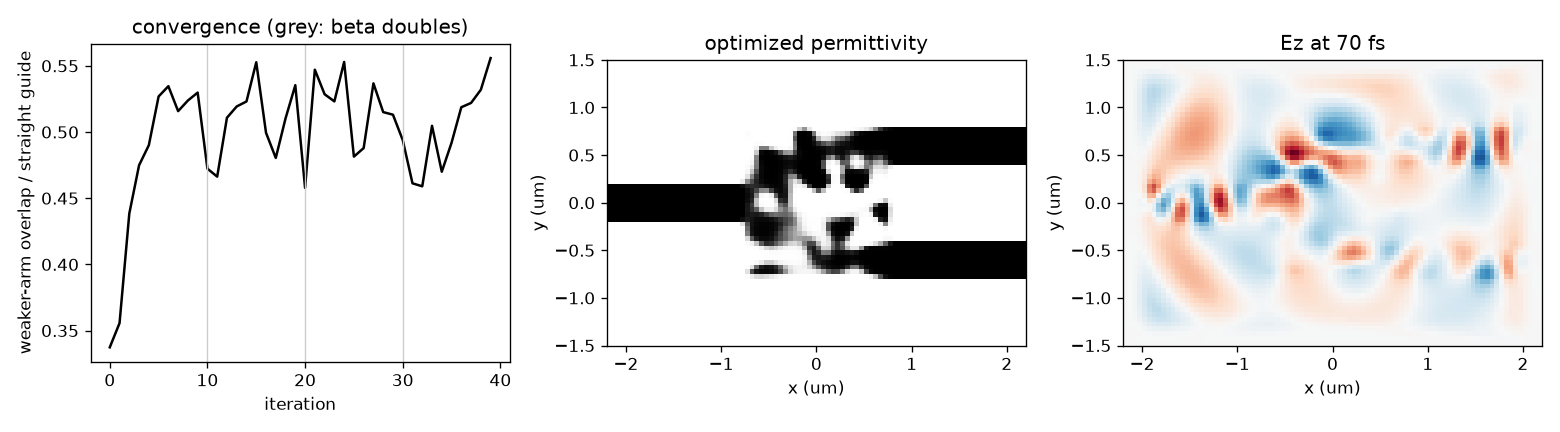
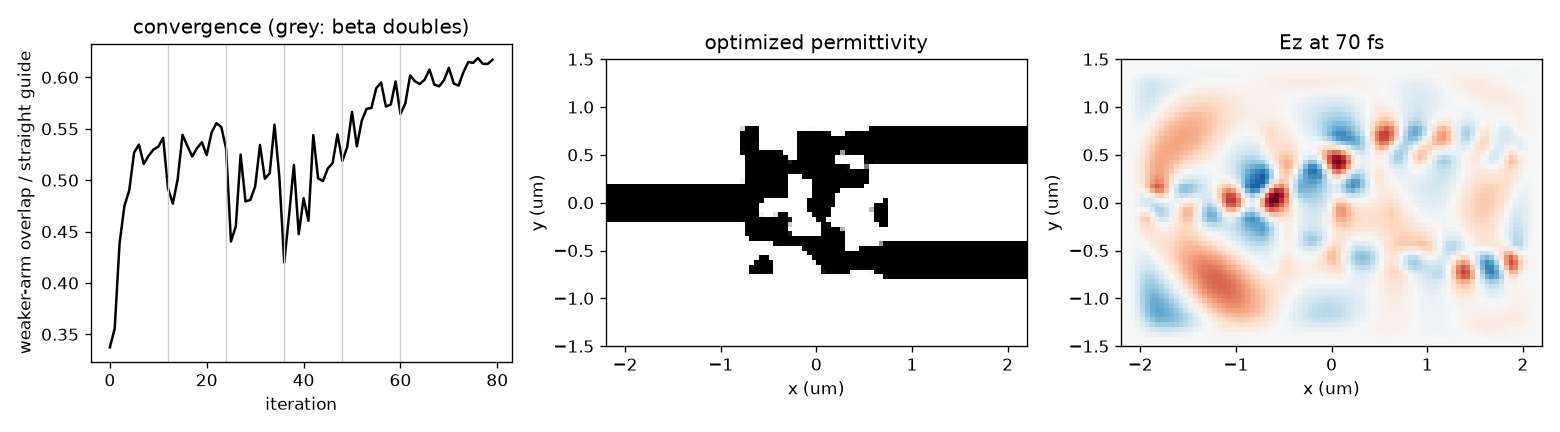
Docs: step-by-step inverse-design tutorial; example 6 runs to a binary design and checks it

diff --git a/examples/06_inverse_design_splitter.py b/examples/06_inverse_design_splitter.py
@@ -7,8 +7,10 @@ evenly), normalized by what a straight waveguide delivers. In 2-D the port
 "mode" here is a Gaussian projection - a cheap proxy for modal power; a 3-D
 device would use ``pf.ModeTransmission`` with a solved mode instead. The density is filtered
 to a minimum feature size, projected toward binary with a sharpness ``beta``
-that doubles every 10 iterations, and stepped with Adam; every gradient is
-one forward + one adjoint FDTD run, compiled once for the whole loop.
+that doubles every 12 iterations up to 64, and stepped with Adam; every
+gradient is one forward + one adjoint FDTD run, compiled once for the whole
+loop. The last lines re-evaluate the design as a hard binary etch, the pattern
+``export_gds`` writes. ``docs/inverse_design_tutorial.rst`` walks through it.
 """
 import matplotlib
 matplotlib.use("Agg")
@@ -62,12 +64,18 @@ region = pf.DesignRegion(center=(0, 0), size=(box, box), core_z=(-1, 1),
                          filter_radius=120e-9)
 vg = pf.make_value_and_grad_params(sim, region.ce_builder(sim), loss)
 rho0 = jnp.full(region.shape(sim.grid), 0.5)
-res = pf.minimize(vg, rho0, pf.Adam(0.05), n_iter=40,
-                  schedule=pf.beta_continuation(2.0, 2.0, every=10, beta_max=16.0),
+n_iter, every, beta_max = 80, 12, 64.0
+res = pf.minimize(vg, rho0, pf.Adam(0.05), n_iter=n_iter,
+                  schedule=pf.beta_continuation(2.0, 2.0, every=every, beta_max=beta_max),
                   verbose=True)
-rho_phys = np.asarray(region.rho_phys(sim, res.x, beta=16.0))
-print(f"weaker arm: {-res.history[-1]['value']:.3f} x the straight-guide overlap; "
-      f"binarization {pf.binarization(rho_phys):.2f}")
+rho_phys = np.asarray(region.rho_phys(sim, res.x, beta=beta_max))
+print(f"weaker arm: {-float(vg(res.x, beta=beta_max)[0]):.3f} x the straight-guide "
+      f"overlap; binarization {pf.binarization(rho_phys):.2f}")
+
+# What gets fabricated is the hard-binary pattern (density > 0.5). A very
+# sharp projection of the same density is that pattern, so evaluate it.
+binary = -float(vg(res.x, beta=1e3)[0])
+print(f"as a binary etch: {binary:.3f}")
 
 try:
     pf.export_gds("06_splitter.gds", region=region, rho=rho_phys, grid=sim.grid)
@@ -77,7 +85,7 @@ except ImportError:
 
 # Final design in context + its field. For the picture the run uses the
 # isotropic (Ez) permittivity, without the in-plane sidewall anisotropy.
-final = region.ce_builder(sim)(res.x, beta=16.0)
+final = region.ce_builder(sim)(res.x, beta=beta_max)
 eps = sim.dt / (np.asarray(final["Ez"])[..., 0] * pf.EPS_0)
 snap = pf.FieldMonitor(name="f", components=("Ez",), times=[70e-15])
 sim_f = chip()
@@ -91,7 +99,7 @@ it = [h["it"] for h in res.history]
 ax[0].plot(it, [-h["value"] for h in res.history], "k-")
 ax[0].set_xlabel("iteration")
 ax[0].set_ylabel("weaker-arm overlap / straight guide")
-for b in range(10, 40, 10):
+for b in range(every, 5 * every + 1, every):   # 2 -> 4 -> ... -> 64
     ax[0].axvline(b, color="0.8", lw=0.8)
 ax[0].set_title("convergence (grey: beta doubles)")
 ax[1].pcolormesh(x_um, y_um, eps.T, cmap="Greys", shading="auto")

diff --git a/docs/inverse_design_tutorial.rst b/docs/inverse_design_tutorial.rst
@@ -1,0 +1,236 @@
+Tutorial: inverse-designing a device
+====================================
+
+This page goes through example 6 (``examples/06_inverse_design_splitter.py``)
+from start to finish: a 1x2 power splitter whose shape is found by gradient
+descent instead of drawn. The numbers quoted are from a run of the script as
+shipped (about 10 s on a CPU). :doc:`optimization` is the reference for every
+function used here; this page shows the order to use them in, and what to
+check before trusting the result.
+
+.. figure:: ../examples/06_inverse_design_splitter.png
+   :width: 100%
+   :alt: Convergence, optimized permittivity, and field of a 1x2 splitter
+
+   Left: the figure of merit over the 80 iterations, with the projection
+   sharpness doubling at the grey lines. Middle: the optimized etch between
+   the fixed waveguide stubs. Right: ``Ez`` as the pulse passes through.
+
+The workflow
+------------
+
+Every inverse design in photonfdtd follows the same seven steps:
+
+1. **Build the fixed layout**: the waveguides, source and monitors that will
+   not change.
+2. **Run a reference** that tells you what "all the light" reads on your
+   monitors.
+3. **Write the figure of merit** as a function of the monitor outputs, scaled
+   by the reference so it is of order one.
+4. **Mark the design region** and set its minimum feature size.
+5. **Optimize**, sharpening the projection as you go.
+6. **Check the binary design**, since that is what gets made.
+7. **Make it robust and export it.**
+
+Step 1: the fixed layout
+------------------------
+
+.. literalinclude:: ../examples/06_inverse_design_splitter.py
+   :language: python
+   :lines: 25-47
+
+``chip()`` builds one input waveguide, two output waveguides and a 1.6 µm gap
+between them. A point source drives the input, and a
+:class:`~photonfdtd.DFTMonitor` across the output side records the field at
+1.55 µm. Nothing here is special to optimization: it is an ordinary
+:class:`~photonfdtd.Simulation`, and you can ``run()`` it and look at the
+fields before going further. Do that. A source in the wrong place or a monitor
+inside the PML is much easier to find now than through a figure of merit that
+refuses to improve.
+
+Step 2: a reference run
+-----------------------
+
+.. literalinclude:: ../examples/06_inverse_design_splitter.py
+   :language: python
+   :lines: 50-56
+
+Raw FDTD outputs are in field units, and a monitor reading of ``1e-30`` means
+nothing by itself. ``chip(straight=True)`` replaces the device with a straight
+waveguide, and ``p_ref`` is what one output port reads when all the light
+arrives. Every later number is a fraction of that.
+
+This also matters to the optimizer. :class:`~photonfdtd.Adam` divides by the
+gradient's running magnitude plus a small ``eps``; with a loss of order
+``1e-30`` the ``eps`` dominates and the design does not move.
+
+Step 3: the figure of merit
+---------------------------
+
+.. literalinclude:: ../examples/06_inverse_design_splitter.py
+   :language: python
+   :lines: 58-60
+
+Each port is read with a :class:`~photonfdtd.FieldProjection`: the monitor's
+field projected onto a Gaussian at the port's position. In 2-D this is a cheap
+stand-in for modal power. It is an overlap, not a power fraction, so an ideal
+splitter does not read exactly 0.5. A 3-D device would use
+:class:`~photonfdtd.ModeTransmission`, which projects onto the solved
+waveguide mode and gives ``|S|**2`` directly.
+
+:func:`~photonfdtd.combine` with ``reduce="min"`` returns the *weaker* port.
+Maximizing a sum would be satisfied by sending everything to one arm; the
+minimum only improves when both arms do. The loss is the negative of it,
+because :func:`~photonfdtd.minimize` minimizes.
+
+Step 4: the design region
+-------------------------
+
+.. literalinclude:: ../examples/06_inverse_design_splitter.py
+   :language: python
+   :lines: 62-66
+
+The :class:`~photonfdtd.DesignRegion` is the box between the stubs. Its
+parameters are one density per cell, ``rho`` between 0 (etched) and 1 (core).
+Before it reaches the simulation, the density is
+
+* **filtered** with a cone of radius ``filter_radius``, so no feature is much
+  smaller than 120 nm here. Set this from your process's minimum feature
+  size;
+* **projected** through a ``tanh`` of sharpness ``beta``, which pushes it
+  toward 0 or 1.
+
+:func:`~photonfdtd.make_value_and_grad_params` then compiles one function,
+``vg(rho, beta=...)``, that returns the loss and its gradient with respect to
+every cell from one forward and one adjoint run. The starting point is uniform
+grey, ``rho = 0.5``, which reads **0.34** here: light leaks across the gap into
+both arms.
+
+Step 5: optimize
+----------------
+
+.. literalinclude:: ../examples/06_inverse_design_splitter.py
+   :language: python
+   :lines: 67-73
+
+:func:`~photonfdtd.minimize` takes an Adam step, clips the density to
+``[0, 1]`` and repeats. :func:`~photonfdtd.beta_continuation` doubles ``beta``
+every 12 iterations: 2, 4, 8, 16, 32, 64. Early on the projection is soft, so
+material can appear and move anywhere. Later it is nearly a step, and the
+design is forced to commit to core or etch.
+
+The convergence curve shows this. The figure of merit climbs to about 0.54 in
+the first stage, drops each time ``beta`` doubles (the projected design
+changes under the optimizer), and recovers within a few steps. It ends at
+**0.62** with a :func:`~photonfdtd.binarization` of 0.99.
+
+Step 6: check the binary design
+-------------------------------
+
+.. literalinclude:: ../examples/06_inverse_design_splitter.py
+   :language: python
+   :lines: 75-78
+
+The optimizer saw a density with some grey in it. The mask has none:
+:func:`~photonfdtd.export_gds` contours the density at 0.5. Evaluating the same
+parameters with a very sharp projection gives exactly that pattern, so
+``vg(res.x, beta=1e3)`` is the number to quote. Here it is **0.619**, the same
+as the optimized value, because the continuation ran until the design was
+binary.
+
+Stopping early does not get you there. The same script with 40 iterations and
+``beta_max=16`` reports 0.54 with a binarization of 0.71, and that design reads
+**0.42** as a binary etch: a fifth of the performance was in grey material that
+cannot be made. If the binary number is much below the optimized one, run the
+continuation further.
+
+Step 7: robustness and export
+-----------------------------
+
+A real etch comes out slightly wider or narrower than drawn.
+:func:`~photonfdtd.robust` models that by shifting the projection threshold
+``eta``, and optimizes the worst of the three variants:
+
+.. code-block:: python
+
+   vg_robust = pf.robust(vg, etas=(0.45, 0.5, 0.55), reduce="max")
+   res_r = pf.minimize(vg_robust, rho0, pf.Adam(0.05), n_iter=80,
+                       schedule=pf.beta_continuation(2.0, 2.0, every=12, beta_max=64.0))
+
+Each iteration now costs three simulations (23 s in all instead of 9 s). The
+binary figure of merit of both designs, across etch thresholds:
+
+.. list-table::
+   :header-rows: 1
+   :widths: 28 12 12 12 12 12
+
+   * - ``eta``
+     - 0.40
+     - 0.45
+     - 0.50
+     - 0.55
+     - 0.60
+   * - nominal design
+     - 0.33
+     - 0.50
+     - **0.62**
+     - 0.50
+     - 0.27
+   * - robust design
+     - 0.54
+     - 0.55
+     - 0.55
+     - 0.53
+     - 0.48
+
+The nominal design is better only if it is etched exactly as drawn, and loses
+half its performance at ``eta = 0.4``. The robust design gives up a little at
+the nominal threshold and holds 0.48 or better across the whole range,
+including the two thresholds it was not trained on.
+
+Finally, write the design out. ``rho_phys`` is the filtered and projected
+density the simulation saw, and :func:`~photonfdtd.export_gds` (needs
+``gdstk``) contours it:
+
+.. literalinclude:: ../examples/06_inverse_design_splitter.py
+   :language: python
+   :lines: 80-84
+
+Adapting it to your own device
+------------------------------
+
+* **3-D devices.** Give :class:`~photonfdtd.DesignRegion` the core layer's
+  ``core_z`` range and use :class:`~photonfdtd.ModeTransmission` for the
+  ports. The loop is unchanged.
+* **Several wavelengths.** Give the monitor several ``freqs``. The port
+  objectives then return one value per frequency, and the loss can take
+  their minimum for a flat response.
+* **Known shapes.** If the device is a taper or a coupler with a few
+  dimensions to tune, optimize those with :class:`~photonfdtd.ShapeDesign`
+  instead of a density (see :doc:`optimization`).
+* **Other sources.** Any source works, including a
+  :class:`~photonfdtd.ChargedParticle`; a moving charge needs the default
+  ``"checkpoint"`` adjoint.
+* **Long runs.** Pass ``checkpoint="run.npz"`` to
+  :func:`~photonfdtd.minimize`. An interrupted run resumes from the file and
+  gives the same result as an uninterrupted one.
+* **Memory.** If the grid does not fit on the device, pass ``method="tiled"``
+  or one of the reversible adjoints to
+  :func:`~photonfdtd.make_value_and_grad_params` (see
+  :ref:`choosing-an-adjoint`).
+* **A dataset instead of a figure of merit.** To train a chip on input/output
+  samples, see :doc:`training_tutorial`.
+
+If it does not converge
+-----------------------
+
+* **The loss never moves.** It is probably not of order one. Divide by a
+  reference run (step 2).
+* **It splits unevenly, or uses one port.** Use ``reduce="min"`` over the
+  ports rather than a sum.
+* **The binary number is much worse than the optimized one.** Continue to a
+  higher ``beta_max``, with enough iterations at each stage to recover.
+* **It collapses when beta doubles and does not recover.** Give each stage
+  more iterations (``every``), or lower the learning rate.
+* **Features are too small to make.** Raise ``filter_radius``, and use
+  :func:`~photonfdtd.robust`.

diff --git a/docs/examples.rst b/docs/examples.rst
@@ -177,9 +177,11 @@ improves if it splits evenly. :func:`~photonfdtd.make_value_and_grad_params`
 compiles the forward and adjoint run once, and :func:`~photonfdtd.minimize`
 steps the density with Adam while
 :func:`~photonfdtd.beta_continuation` doubles the projection sharpness every
-10 iterations. The jumps in the convergence curve at those points are the
-design being pushed toward binary. At the end the design is written to GDS if
-``gdstk`` is installed. In 2-D the port readout is a Gaussian projection, a
+12 iterations, up to 64. The jumps in the convergence curve at those points
+are the design being pushed toward binary. At the end the design is
+re-evaluated as a hard binary etch and written to GDS if ``gdstk`` is
+installed. :doc:`inverse_design_tutorial` goes through the script step by
+step. In 2-D the port readout is a Gaussian projection, a
 cheap stand-in for modal power. A 3-D device would use
 :class:`~photonfdtd.ModeTransmission`. See :doc:`optimization` for the whole
 toolkit.
@@ -188,7 +190,7 @@ toolkit.
    :width: 100%
    :alt: Convergence, optimized permittivity, and field of a 1x2 splitter
 
-   Left: the weaker arm's overlap over 40 iterations. Middle: the optimized
+   Left: the weaker arm's overlap over 80 iterations. Middle: the optimized
    permittivity between the fixed waveguide stubs. Right: ``Ez`` as the pulse
    passes through the splitter.
 

diff --git a/README.md b/README.md
@@ -211,7 +211,8 @@ print(result.n_eff)            # array of effective indices
   transfer matrix and a training step costs N forward + N adjoint runs however
   big the batch. Every design gradient can use the checkpointed, reversible,
   PML-reversible or disk-tiled adjoint (`method=`), and dispersive layouts
-  around the design region are supported. See `docs/optimization.rst`.
+  around the design region are supported. See `docs/optimization.rst`, and
+  `docs/inverse_design_tutorial.rst` for a step-by-step run.
 - **Memory planning**: per-array `float32`/`float64` precision (the stepping
   arrays share one dtype; monitor storage may differ) and a memory planner
   (`estimate_memory`, `recommend_mode`, `format_report`, `available_memory`)

diff --git a/docs/optimization.rst b/docs/optimization.rst
@@ -178,6 +178,8 @@ Training memory scales with the number of input ports, because the ``N``
 adjoints are taken together inside one ``jax.value_and_grad``. With
 ``method="tiled"`` the port simulations are disk-backed instead (see below).
 
+.. _choosing-an-adjoint:
+
 Choosing an adjoint
 -------------------
 
@@ -245,3 +247,5 @@ Limitations
 
 The worked examples 6 (a 1x2 splitter) and 7 (a phase classifier trained on a
 dataset) in :doc:`examples` run all of this end to end.
+:doc:`inverse_design_tutorial` and :doc:`training_tutorial` go through them
+step by step.

diff --git a/docs/index.rst b/docs/index.rst
@@ -21,6 +21,7 @@ don't. See :doc:`api` for the full reference.
    backends
    accuracy
    optimization
+   inverse_design_tutorial
    training_tutorial
    active_devices
    chip_simulation
